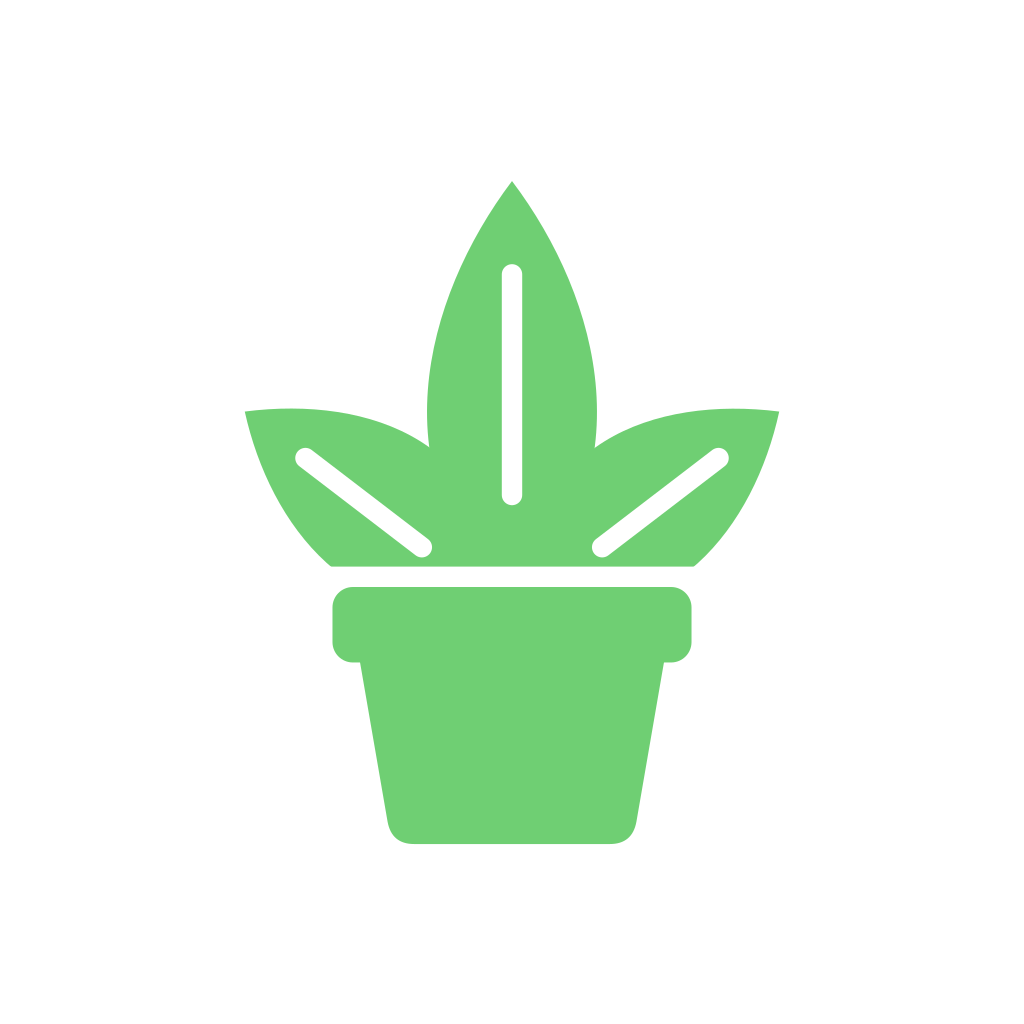
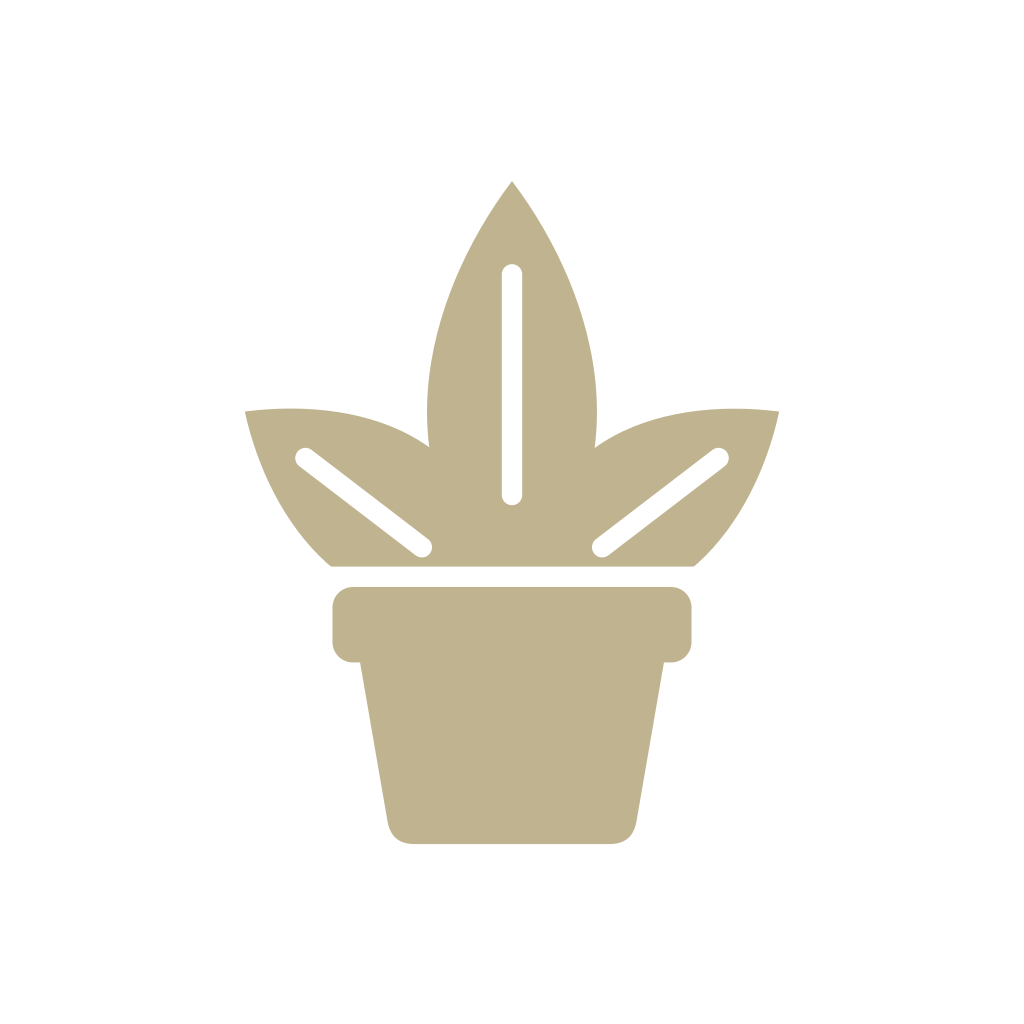
feat: palette from four brand colours (ticket #34)
Dark Medici Blue replaces brand green as the tint (tab bar, buttons,
links, check circles, navigationTheme.primary, Settings' seedColor),
with onTint white / #0e2626. Ecru is tintSoft, behind the photo
placeholder and the Plant screen's hero. Hay's Russet is the repot hue,
Olive Ocher the fertilize hue; water, note, backgrounds and the status
colours stay iOS's.

The PickedSpecies card moves from tintSoft to surface: its tinted
Change button read 2.46:1 on Ecru, short of ticket #30's 4.5:1.

The icon is a Medici plant on Ecru (light) and an Ecru plant on black
(dark); the light splash is Medici on Ecru. Checked on a signed Release
simulator build, and every screen in light, dark and Increase Contrast.

Changed region(s): [[0.2188, 0.1875, 0.7812, 0.8438]]

diff --git a/src/ui/theme.ts b/src/ui/theme.ts
@@ -1,13 +1,18 @@
 import { Color, DarkTheme, DefaultTheme, type Theme } from 'expo-router';
 import { DynamicColorIOS, StyleSheet, type ColorSchemeName } from 'react-native';
 
-/** Brand green, per appearance. `assets/icon.svg` and app.json's splash repeat it. */
-const GREEN = { light: '#2e7d32', dark: '#6fcf73' };
+// The palette (ticket #34): four colours from Sanzo Wada's A Dictionary of Color Combinations,
+// their hex the naive conversion of the owner's CMYK, each but Olive Ocher with a dark shade.
+/** Dark Medici Blue, the tint: 5.08:1 on white, 7.66:1 on the dark card. */
+const MEDICI = { light: '#417777', dark: '#7fb8b8' };
+/** Ecru. `assets/icon.svg` and app.json's splash repeat it and Medici's light shade. */
+const ECRU = { light: '#c0b490', dark: '#3a3526' };
 
 /**
  * The app's colours, the only ones it uses: iOS semantic colours, which follow light and dark
- * mode and Increase Contrast by themselves, brand green, and two status colours in iOS's shades. React Native draws text black unless
- * told otherwise, so every Text takes its colour from here, through `text`.
+ * mode and Increase Contrast by themselves, the palette above, and two status colours in iOS's
+ * shades. React Native draws text black unless told otherwise, so every Text takes its colour
+ * from here, through `text`.
  */
 export const colors = {
   /** Behind a screen's content. */
@@ -25,11 +30,15 @@ export const colors = {
   separator: Color.ios.separator,
   /** Behind a chip, a field, or a pressed row. */
   fill: Color.ios.tertiarySystemFill,
-  tint: DynamicColorIOS(GREEN),
-  /** Text on a tint fill. */
-  onTint: DynamicColorIOS({ light: '#ffffff', dark: '#0b2410' }),
-  /** A pale tint, behind a photo placeholder or a picked Species. */
-  tintSoft: DynamicColorIOS({ light: '#e8f5e9', dark: '#1d3320' }),
+  tint: DynamicColorIOS(MEDICI),
+  /** Text on a tint fill: 5.08:1 in light mode, 7.14:1 in dark. */
+  onTint: DynamicColorIOS({ light: '#ffffff', dark: '#0e2626' }),
+  /**
+   * A warm ground behind a photo placeholder. Label reads 10.2:1 on it and secondaryLabel about
+   * 5.3:1, but tint only 2.46:1 in light mode, so never tinted text. The placeholder's tinted leaf
+   * is decorative and hidden from VoiceOver, the same pair as the app icon.
+   */
+  tintSoft: DynamicColorIOS(ECRU),
   // The two status colours are iOS's systemRed and systemOrange, but in light mode their Increase
   // Contrast shades: the default ones read about 3.5:1 and 2.2:1 on a card, short of the 4.5:1 a
   // status line needs (ticket #30).
@@ -39,10 +48,12 @@ export const colors = {
   dangerSoft: DynamicColorIOS({ light: '#fdecea', dark: '#361a18' }),
   /** Care Due today. */
   dueToday: DynamicColorIOS({ light: '#c93400', dark: '#ff9f0a', highContrastDark: '#ffb340' }),
-  // Each kind of Care Event's hue, beside its symbol (CARE_COPY).
+  // Each kind of Care Event's hue, beside its symbol (CARE_COPY), always beside its words. Water
+  // stays systemBlue, apart from the tint; fertilize is Olive Ocher, 1.91:1 on white like
+  // systemYellow before it; repot is Hay's Russet, 4.04:1 on the dark card.
   water: Color.ios.systemBlue,
-  fertilize: Color.ios.systemYellow,
-  repot: Color.ios.systemBrown,
+  fertilize: '#d1bd1a',
+  repot: DynamicColorIOS({ light: '#681916', dark: '#c8594c' }),
   note: Color.ios.systemGray,
 };
 
@@ -57,7 +68,7 @@ export function navigationTheme(scheme: ColorSchemeName): Theme {
     ...base,
     colors: {
       ...base.colors,
-      primary: dark ? GREEN.dark : GREEN.light,
+      primary: dark ? MEDICI.dark : MEDICI.light,
       // systemGroupedBackground, as `colors.background` resolves it.
       background: dark ? '#000000' : '#f2f2f7',
     },

diff --git a/src/ui/SpeciesPicker.tsx b/src/ui/SpeciesPicker.tsx
@@ -101,7 +101,8 @@ const styles = StyleSheet.create({
     gap: space.m,
     padding: space.m,
     borderRadius: 10,
-    backgroundColor: colors.tintSoft,
+    // Not tintSoft: the tinted action reads only 2.46:1 on Ecru.
+    backgroundColor: colors.surface,
   },
   pickedStacked: { flexDirection: 'column', alignItems: 'flex-start' },
 });

diff --git a/docs/agents/expo.md b/docs/agents/expo.md
@@ -39,7 +39,7 @@ Run test, lint and typecheck before declaring any task done.
 - Sheets (the log sheet, a Care Event's edit sheet) are routes presented with the shared `SHEET` options in `app/_layout.tsx`: a native `formSheet` sized to its content, with a grabber, opaque because the iOS 26 glass default turns dark under the dimmed screen. Each carries a title and a `CloseButton` (`src/ui/Form.tsx`). A screen pushed from a sheet lands beneath it, so a sheet moves on with `router.replace`.
 - Forms (spec #22): every text input is a `Field` (`src/ui/Form.tsx`): its label above it (for a search field, the heading over it), never a placeholder in its place; its unit a `suffix`; a Done bar on number pads. New plant's Add sits in its header, greyed until the plant can be added, and the form's first line says why. A plant's care schedule is edited through `useCareSchedule` (`src/ui/CareSchedule.tsx`), which Edit plant and New plant share; so do their Species pickers (`SpeciesSearch`, `src/ui/SpeciesPicker.tsx`), whose search ranks in core (`searchSpecies`, `src/core/species.ts`).
 - Every "when did it happen" is a `WhenPicker` (`src/ui/Form.tsx`): Today and Yesterday chips, and `@expo/ui`'s SwiftUI `DatePicker` in its compact style for any earlier day. `@expo/ui` gotchas (SDK 57): a `Host` inside a `flexWrap` row loses its place, so it sits beside whatever may wrap, never within it; the community `datetime-picker` drop-in only matches its content vertically and collapses in a row, so use `Host matchContents` around the SwiftUI view; an inline `Host` needs `ignoreSafeArea="all"` (as Expo's own community wrappers pass), or its content rides up by the keyboard's inset while a sheet's keyboard is up. `Host`'s `seedColor` takes `colors.tint` as it is: Expo's colour conversion resolves a `DynamicColorIOS` per appearance, so no hex is needed.
-- Styling comes from `src/ui/theme.ts`, the only file holding colour values (the app icon and splash repeat a few, below): iOS semantic colours and brand green, which follow light and dark mode natively, except the two status colours (`danger`, `dueToday`), which take iOS's Increase Contrast shades in light mode, since the default systemRed and systemOrange read 3.5:1 and 2.2:1 on a card (ticket #30); the navigation theme, in hex and picked by `useColorScheme()`; the type scale, spacing steps, target, pressed and grouped-list styles, and `accessibilitySize`, the font scale past which a row of controls stacks. React Native draws text black in either appearance, so every `Text` takes a `text.*` style or a colour from `colors`; SwiftUI views (Settings' Form, the date picker) draw with SwiftUI's own type and colours, their `Host` given `seedColor={colors.tint}`. Icons are SF Symbols (`expo-symbols`); a Care Event type's symbol and hue live in `CARE_COPY`, and `CareSymbol` draws them (`src/ui/CareEvent.tsx`). Every `Pressable` shows a `pressedStyle` (Today's check circles fill with their tick instead) and is a 44 pt target, with `hitSlop` where it's drawn smaller. `hitSlop` reaches only as far as the nearest ancestor that clips (`overflow: 'hidden'`, a ScrollView), so that ancestor needs the padding; a header button needs the 44 pt as its own size (`target`), since UIKit routes touches to header items, and so does the view inside a SwiftUI `Menu` (Today's ⋯), since SwiftUI takes its touches. A screen or list with nothing to show shows `EmptyState` (`src/ui/EmptyState.tsx`): a symbol, a title, one line and, where one applies, the action that fills it. Screens animate changes with Reanimated's layout animations: React Native's `LayoutAnimation` aborted the app once (SIGABRT in `LayoutAnimationDelegateProxy`, a sheet closing during Today's refresh).
+- Styling comes from `src/ui/theme.ts`, the only file holding colour values (the app icon and splash repeat a few, below): iOS semantic colours for backgrounds, surfaces and labels, and the palette (ticket #34): Dark Medici Blue as the tint, Ecru as `tintSoft` (never behind tinted text: 2.46:1), Hay's Russet and Olive Ocher as the repot and fertilize hues, each but Olive Ocher a `DynamicColorIOS` with a dark shade picked for dark mode's contrast. All follow light and dark mode natively, except the two status colours (`danger`, `dueToday`), which take iOS's Increase Contrast shades in light mode, since the default systemRed and systemOrange read 3.5:1 and 2.2:1 on a card (ticket #30); the navigation theme, in hex and picked by `useColorScheme()`; the type scale, spacing steps, target, pressed and grouped-list styles, and `accessibilitySize`, the font scale past which a row of controls stacks. React Native draws text black in either appearance, so every `Text` takes a `text.*` style or a colour from `colors`; SwiftUI views (Settings' Form, the date picker) draw with SwiftUI's own type and colours, their `Host` given `seedColor={colors.tint}`. Icons are SF Symbols (`expo-symbols`); a Care Event type's symbol and hue live in `CARE_COPY`, and `CareSymbol` draws them (`src/ui/CareEvent.tsx`). Every `Pressable` shows a `pressedStyle` (Today's check circles fill with their tick instead) and is a 44 pt target, with `hitSlop` where it's drawn smaller. `hitSlop` reaches only as far as the nearest ancestor that clips (`overflow: 'hidden'`, a ScrollView), so that ancestor needs the padding; a header button needs the 44 pt as its own size (`target`), since UIKit routes touches to header items, and so does the view inside a SwiftUI `Menu` (Today's ⋯), since SwiftUI takes its touches. A screen or list with nothing to show shows `EmptyState` (`src/ui/EmptyState.tsx`): a symbol, a title, one line and, where one applies, the action that fills it. Screens animate changes with Reanimated's layout animations: React Native's `LayoutAnimation` aborted the app once (SIGABRT in `LayoutAnimationDelegateProxy`, a sheet closing during Today's refresh).
 - The app icon and the splash (ticket #29) are drawn from `assets/icon.svg`, whose header names each PNG beside it, what it's for and its two fills. Those fills, and the splash's backgrounds in app.json (`#000000` in dark mode), repeat colours from theme.ts, since neither file can import them. `ios.icon` names the light, dark and tinted icons. Expo flattens a transparent light or tinted icon onto white, so only the dark one is transparent and the tinted one is white on black. The splash is the `expo-splash-screen` config plugin's, and expo-router hides it once the first screen is ready, so no code calls it. Changing either takes a prebuild and a native build. Judge the splash on a signed Release build: a Debug build holds it while Metro bundles and shows white for a moment after it, and iOS won't draw the launch screen of an unsigned simulator build (`CODE_SIGNING_ALLOWED=NO`; SpringBoard logs `Security error -67056`), zooming a black screen instead, so sign one with `codesign --force --deep --sign -` first.
 - Schema changes: edit `src/db/schema.ts`, run `npm run db:generate`, review the new SQL in `drizzle/`. Migrations are forward-only; the schema version is SQLite's `PRAGMA user_version`. An Import runs them on an older Export's rows too, in a database holding nothing else (no Species catalog), so a data migration must not depend on the catalog (ADR-0002). Then `npx jest --clearCache`: the SQL is inlined into `drizzle/migrations.js` at transform time and jest caches the result, so an edited or regenerated migration otherwise runs stale in tests ("no such table").
 - Species catalog changes: edit `scripts/species/curated.json` (IDs are Wikidata QIDs, append-only, ADR-0004), bump its `version` whenever species content changes, run `npm run species:build`. Never hand-edit `assets/species.json`; the app reseeds the read-only `species` table when the bundled version is newer.
